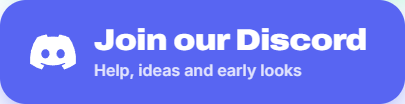
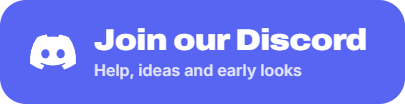
Smaller buttons on one row, no shadow halo

diff --git a/README.md b/README.md
@@ -4,11 +4,11 @@
 
 <br/>
 
-<a href="https://github.com/IdanKol/statusong/releases/latest/download/Statusong-Setup.exe"><img src="docs/btn-download.gif" height="84" alt="Download for Windows" /></a>
+<a href="https://github.com/IdanKol/statusong/releases/latest/download/Statusong-Setup.exe"><img src="docs/btn-download.gif" height="60" alt="Download for Windows" /></a>
 &nbsp;
-<a href="https://discord.gg/R53rh6RpzG"><img src="docs/btn-discord.png" height="84" alt="Join our Discord" /></a>
+<a href="https://discord.gg/R53rh6RpzG"><img src="docs/btn-discord.png" height="60" alt="Join our Discord" /></a>
 &nbsp;
-<a href="https://statusong.com"><img src="docs/btn-website.png" height="84" alt="statusong.com" /></a>
+<a href="https://statusong.com"><img src="docs/btn-website.png" height="60" alt="statusong.com" /></a>
 
 <br/>
 
